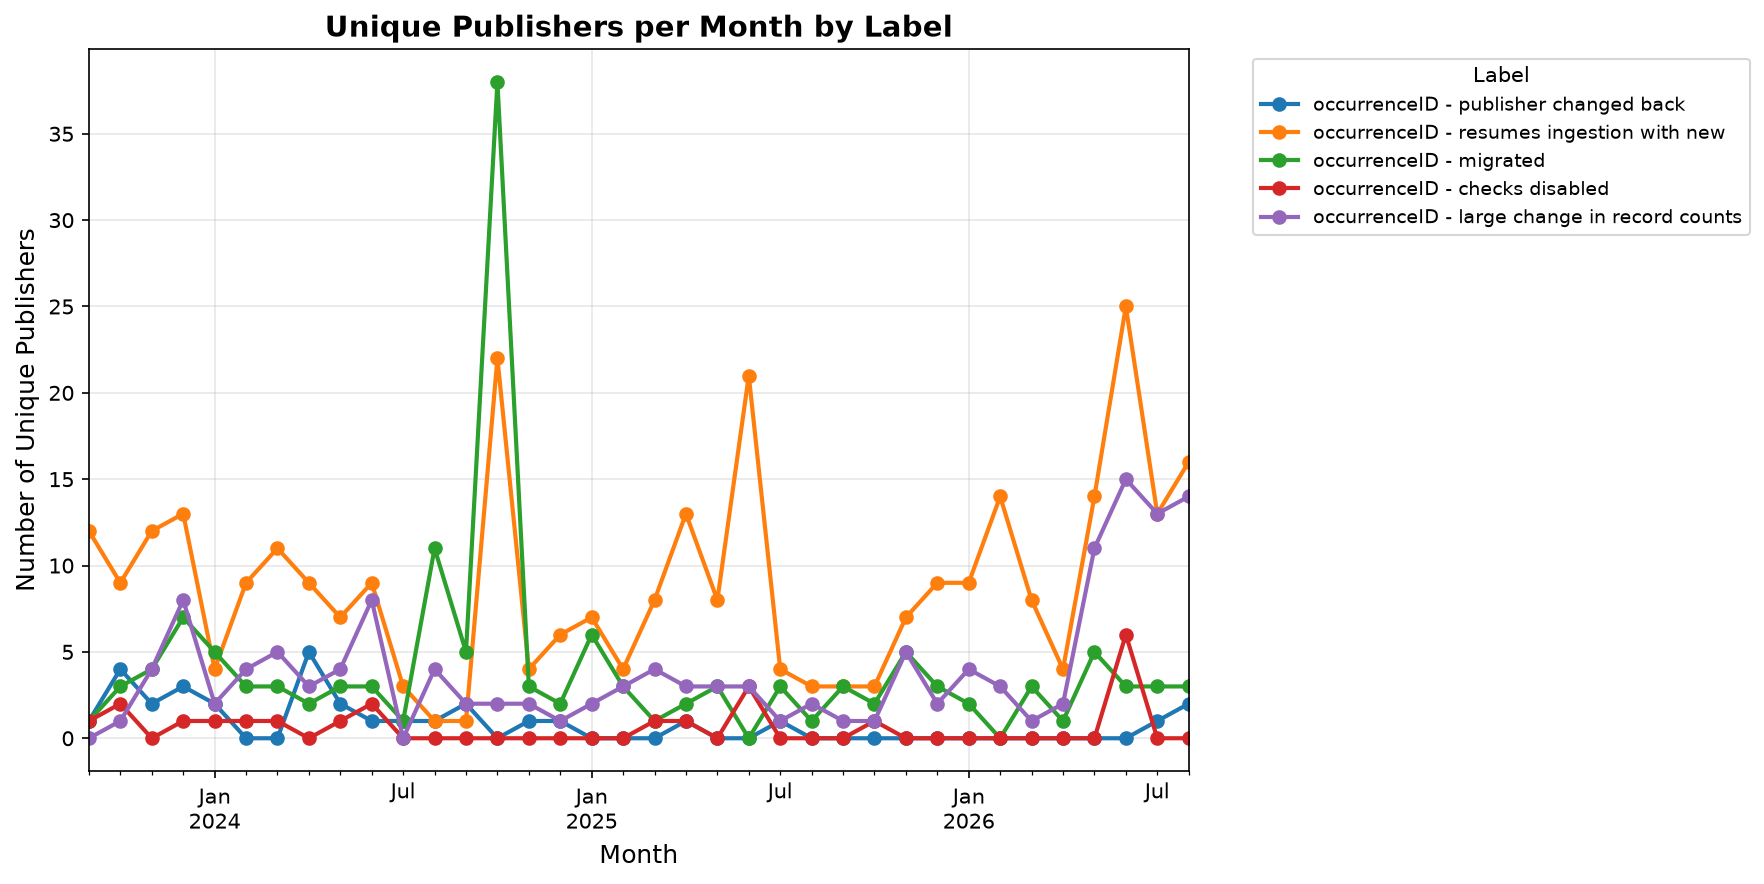
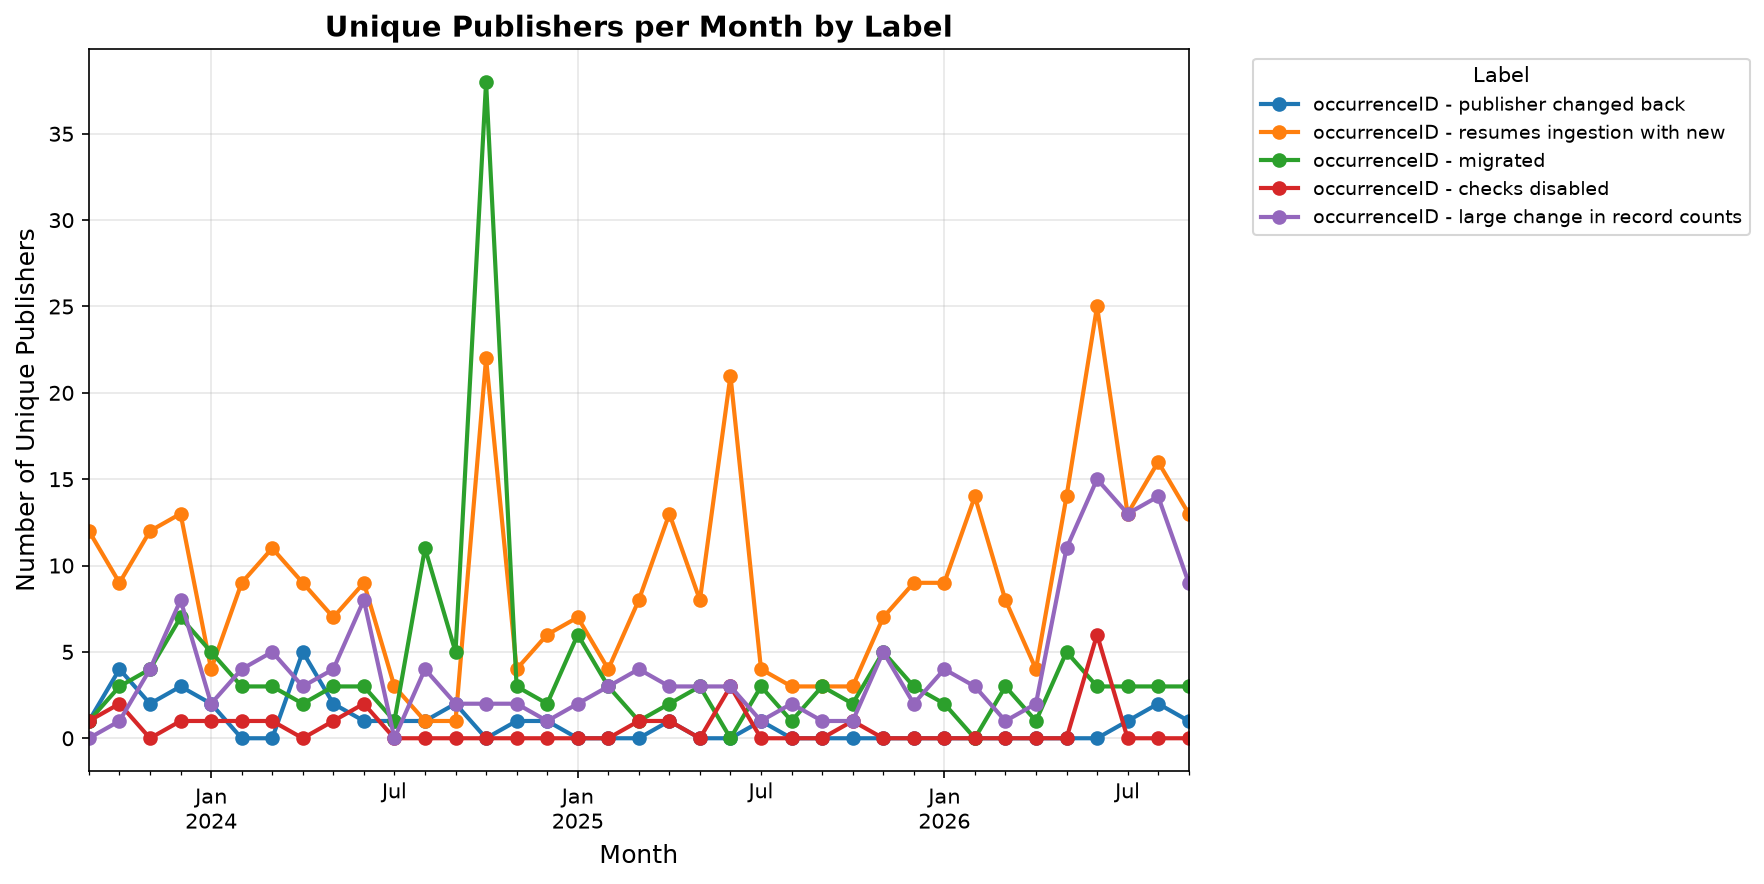
Update issue statistics [automated]

diff --git a/README.md b/README.md
@@ -13,17 +13,17 @@ See also this video for background information: https://vimeo.com/873639382
 
 ## Issue Statistics
 
-Last updated: 2026-09-01 00:49 UTC
+Last updated: 2026-10-01 00:45 UTC
 
 ### Closed Issues by Label
 
 | Label | Closed Issues |
 |-------|---------------|
-| occurrenceID - publisher changed back | 168 |
-| occurrenceID - resumes ingestion with new | 673 |
-| occurrenceID - migrated | 380 |
+| occurrenceID - publisher changed back | 169 |
+| occurrenceID - resumes ingestion with new | 690 |
+| occurrenceID - migrated | 383 |
 | occurrenceID - checks disabled | 210 |
-| occurrenceID - large change in record counts | 169 |
+| occurrenceID - large change in record counts | 181 |
 
 ### Issue Closure Timeline
 
